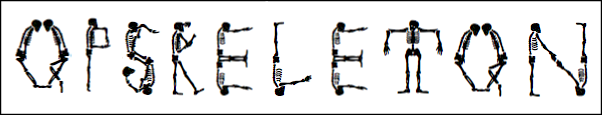
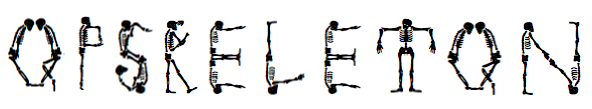
adding whity

Changed region(s): [[0.0, 0.0, 1.0, 1.0]]

diff --git a/index.html b/index.html
@@ -230,8 +230,8 @@ node foo {
 	    </code></pre>
 	  </section>
 
-	  <section>
-	    <img src="images/opskeleton.png" alt="" />
+	  <section data-state='whity'>
+	    <img src="images/opskeleton.png" alt="" style='box-shadow: 0 0 0 0;border:0;' />
 	    <aside class="notes"> Our opskeleton demo</aside>
 	  </section>
 

diff --git a/css/custom.css b/css/custom.css
@@ -1,3 +1,7 @@
+.whity .reveal .state-background {
+	background: white;
+}
+
 
 #video {
   width: 768px;
